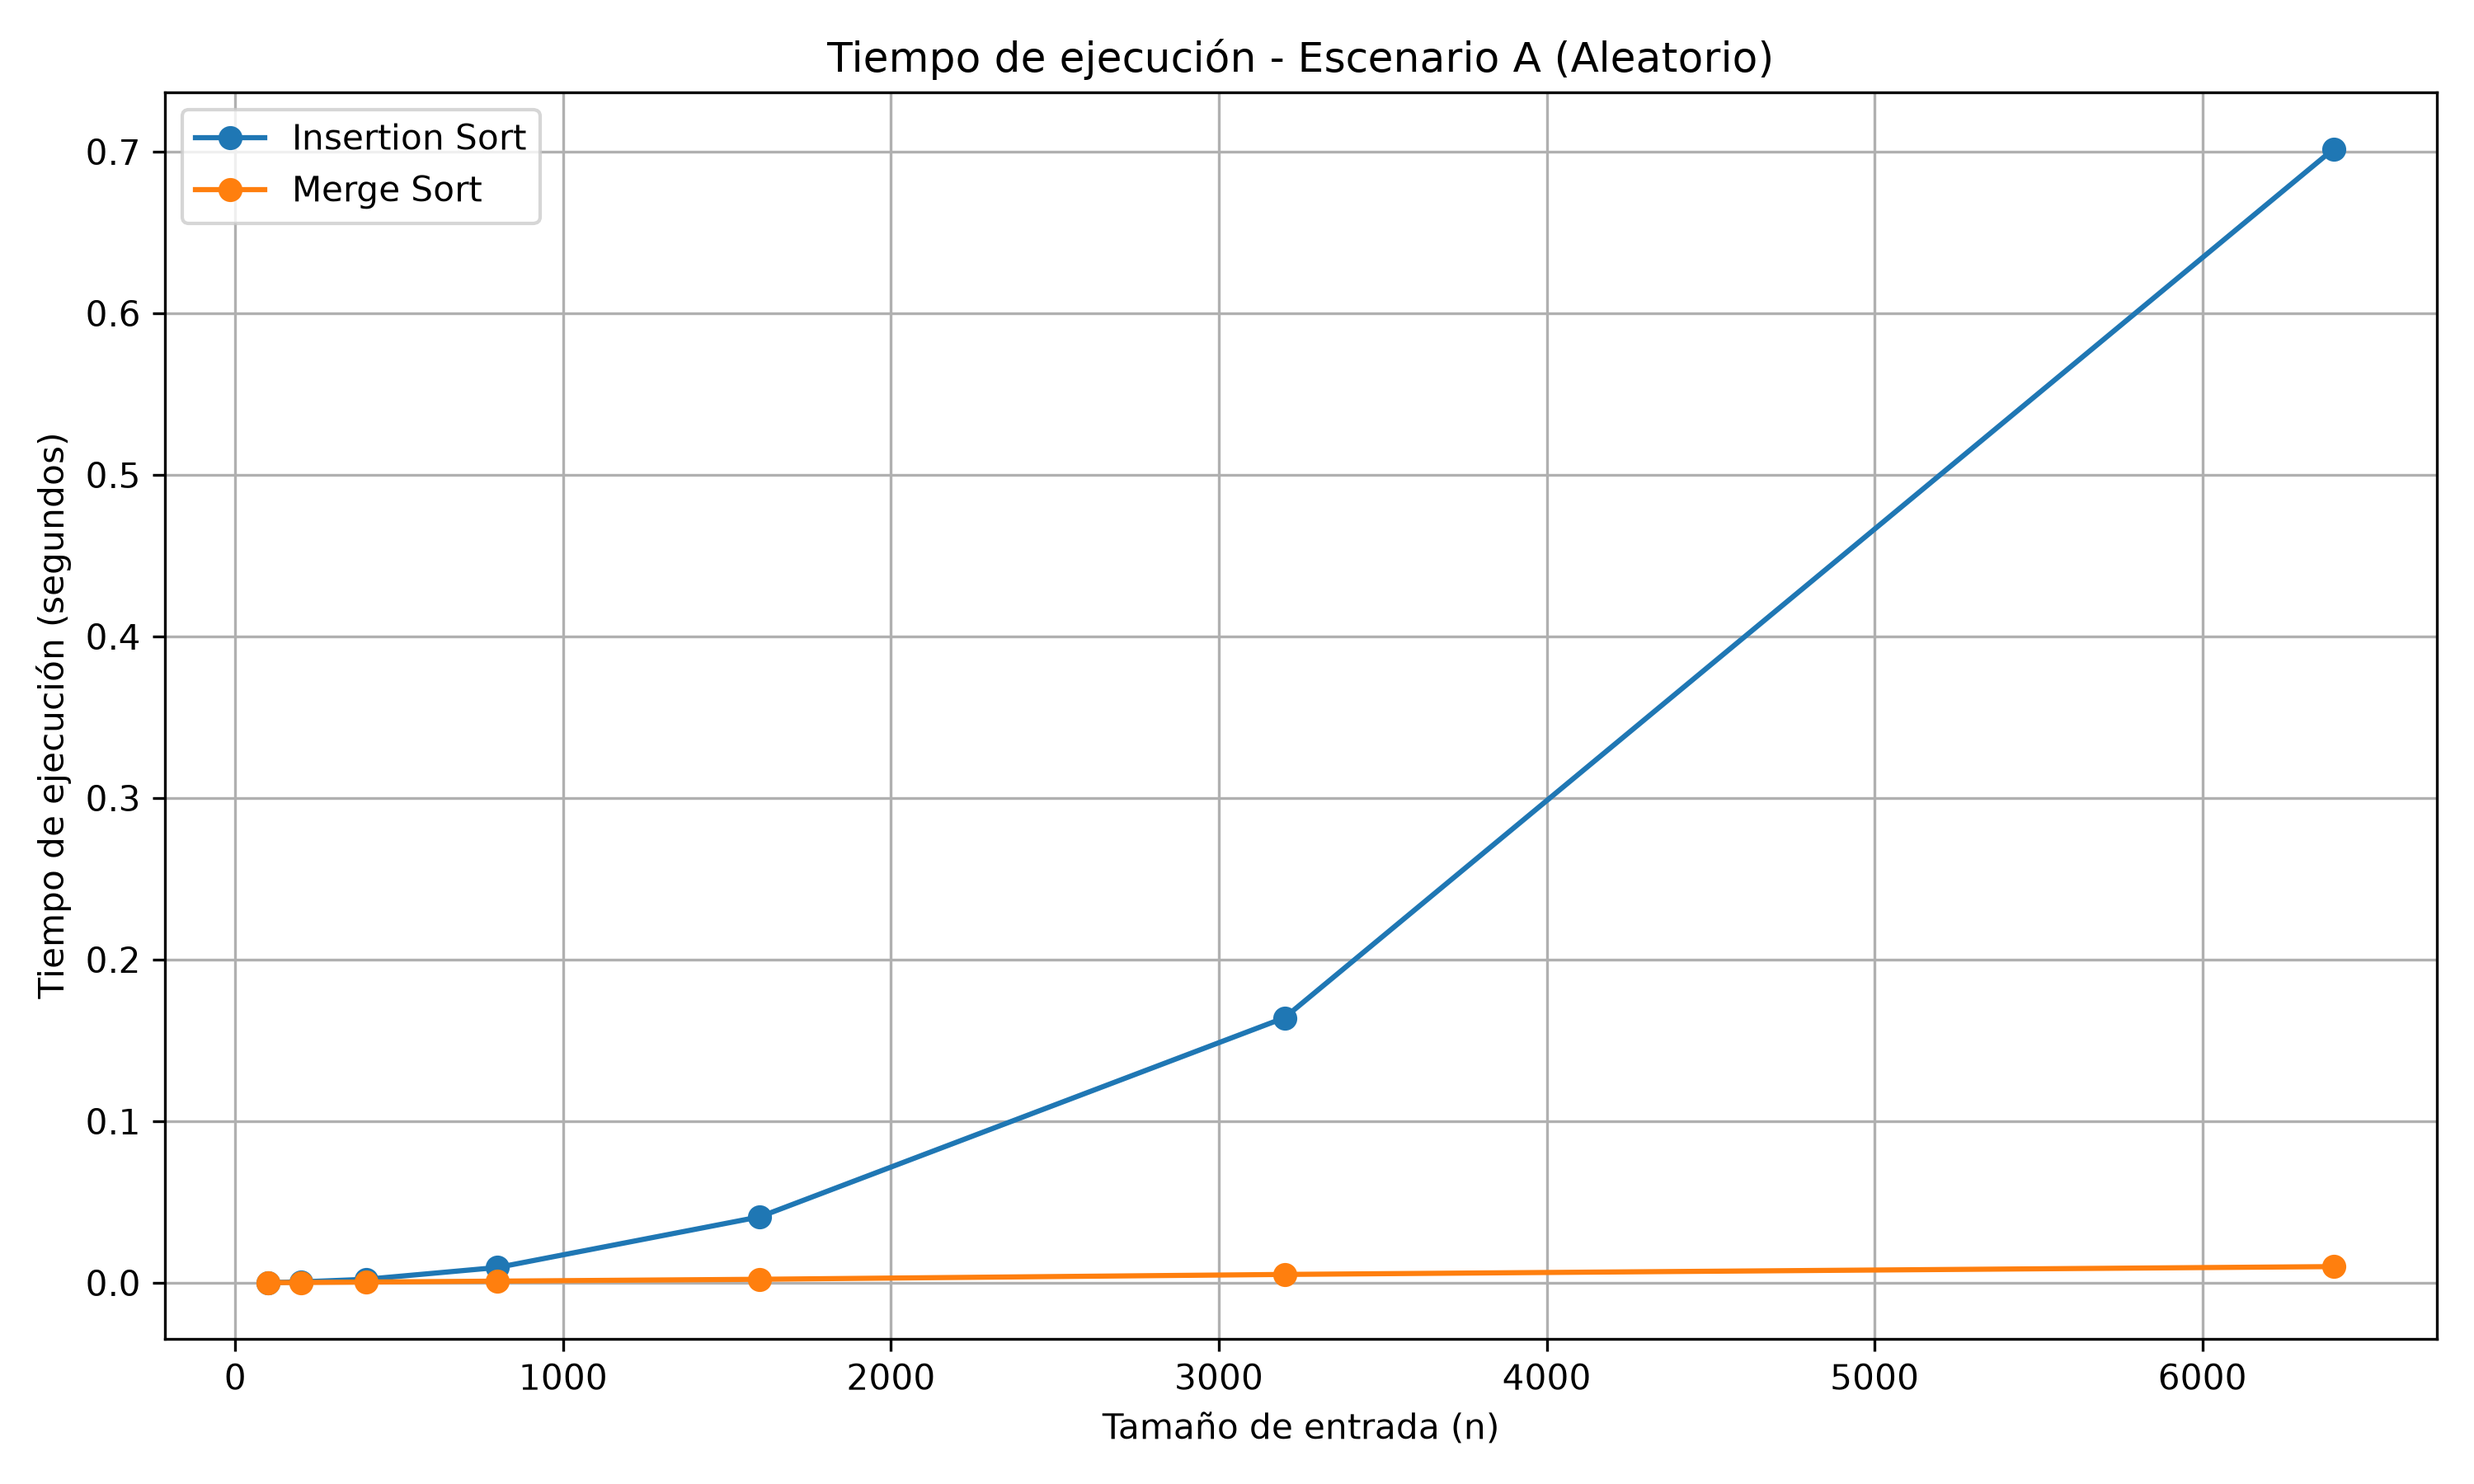
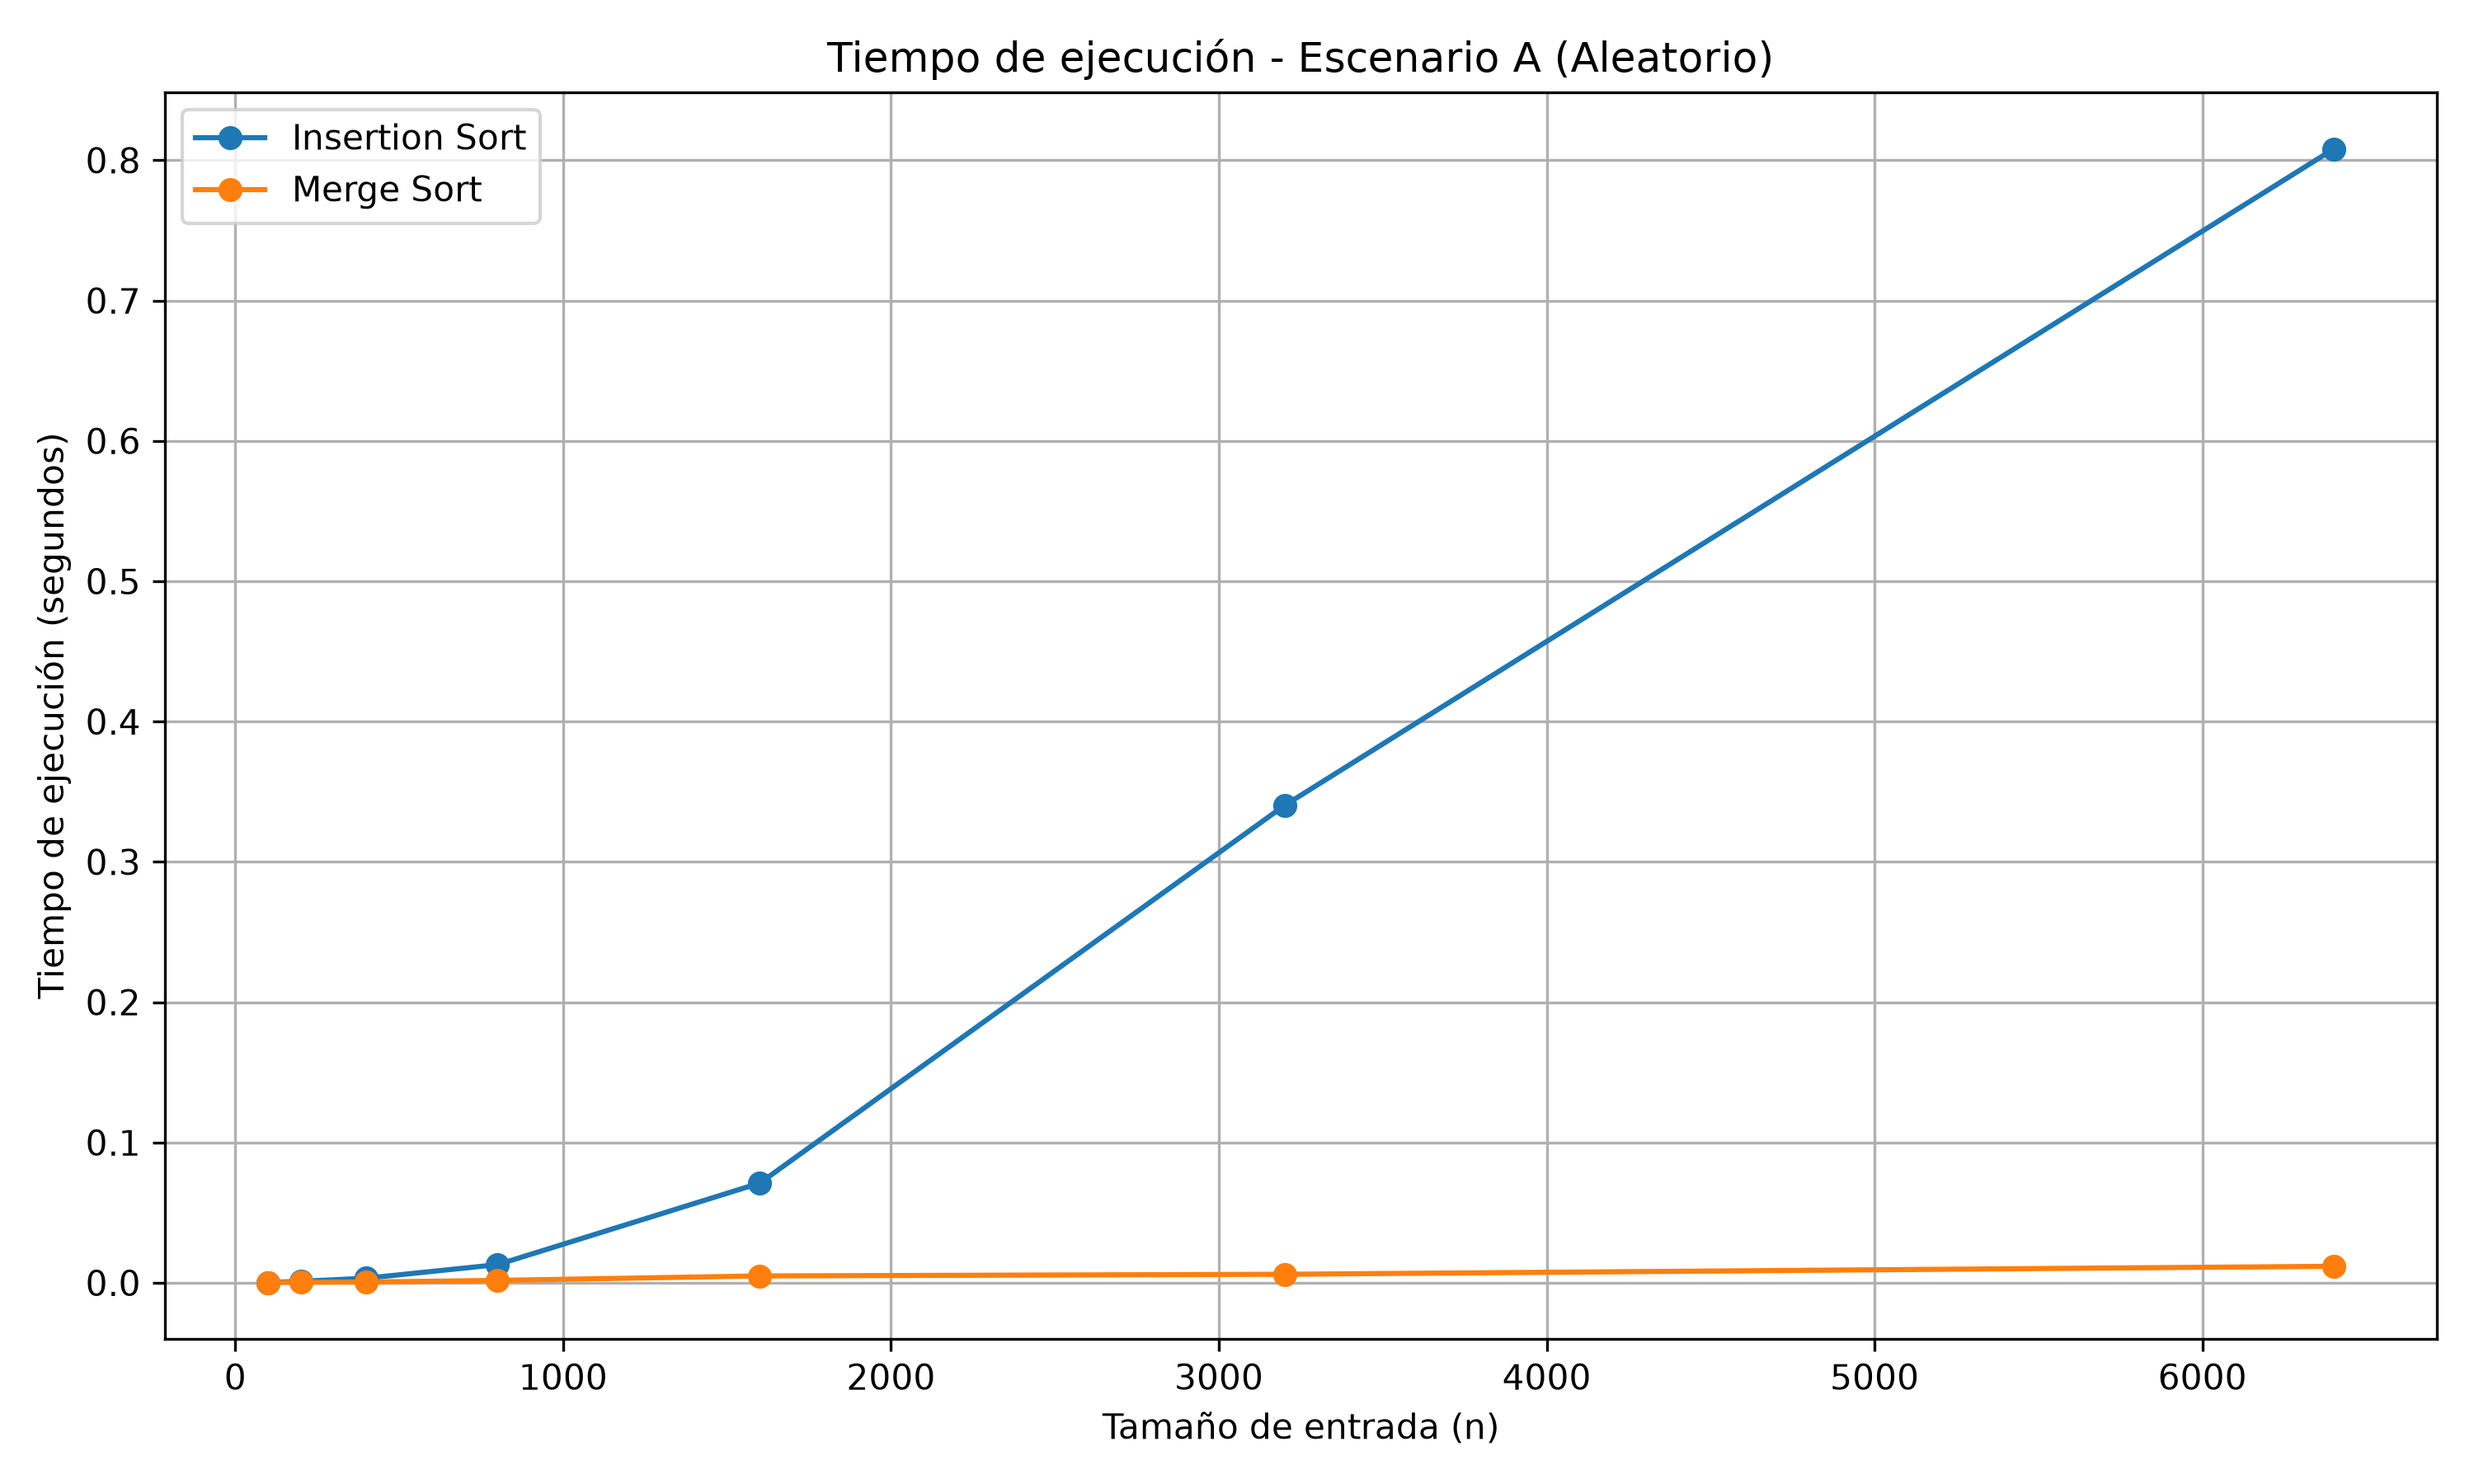
Ajustes y y mejoras en el laboratorio evaluativo 01 sobre archivos de codificación e informe en README

diff --git a/laboratorios/lab1-fundamentos-complejidad-recurrencias/algoritmos.py b/laboratorios/lab1-fundamentos-complejidad-recurrencias/algoritmos.py
@@ -38,6 +38,17 @@ def insertion_sort(datos: list[int]) -> tuple[list[int], int]:
     return lista, comparaciones
 
 def merge(izquierda: list[int], derecha: list[int]) -> tuple[list[int], int]:
+    """Mezcla dos listas ordenadas en orden descendente. 
+        
+    No modifica las listas recibidas: construye una nueva lista con los elementos ordenados. 
+        
+    Args: 
+        izquierda: Primera lista ordenada. derecha: Segunda lista ordenada. 
+        
+    Returns: 
+        Una tupla con la lista mezclada y el número total de comparaciones entre elementos 
+        realizadas durante el proceso. 
+    """
     resultado = []
     i = 0
     j = 0

diff --git a/laboratorios/lab1-fundamentos-complejidad-recurrencias/parte3_casos.py b/laboratorios/lab1-fundamentos-complejidad-recurrencias/parte3_casos.py
@@ -98,7 +98,7 @@ def main() -> None:
 
     plt.tight_layout()
     plt.savefig(CARPETA_GRAFICAS / "parte3_comparaciones.png", dpi=300)
-    plt.close()
+    plt.show()
 
 
     # Crear gráfica de tiempo
@@ -133,7 +133,7 @@ def main() -> None:
 
     plt.tight_layout()
     plt.savefig(CARPETA_GRAFICAS / "parte3_tiempo.png", dpi=300)
-    plt.close()
+    plt.show()
 
 
 if __name__ == "__main__":

diff --git a/laboratorios/lab1-fundamentos-complejidad-recurrencias/parte4_complejidad.py b/laboratorios/lab1-fundamentos-complejidad-recurrencias/parte4_complejidad.py
@@ -82,7 +82,7 @@ def main() -> None:
 
     plt.tight_layout()
     plt.savefig(CARPETA_GRAFICAS / "parte4_tiempo.png", dpi=300)
-    plt.close()
+    plt.show()
 
 if __name__ == "__main__":
     main()

diff --git a/README.md b/README.md
@@ -1,6 +1,6 @@
-# Curso de Analisis de Algoritmos
+# Curso de Análisis de Algoritmos
 
-# Informes de Laboratorio - ejercicios en clase - Análisis de Algoritmos
+## Informes de Laboratorio — Ejercicios en Clase — Análisis de Algoritmos
 
 Repositorio destinado al desarrollo y documentación de los informes de laboratorio evaluativos del curso de Análisis de Algoritmos.
 
@@ -8,13 +8,20 @@ Repositorio destinado al desarrollo y documentación de los informes de laborato
 
 Las carpetas del repositorio se organizan de la siguiente manera:
 
-- `ejercicios-clase/`: contiene los ejercicios y prácticas desarrollados durante las clases.
-- `laboratorio-1/`: contiene los archivos correspondientes al primer informe de laboratorio.
-- `laboratorio-2/`: contiene los archivos correspondientes al segundo informe de laboratorio.
-- `laboratorio-3/`: contiene los archivos correspondientes al tercer informe de laboratorio.
-- `laboratorio-4/`: contiene los archivos correspondientes al cuarto informe de laboratorio.
-- `laboratorio-5/`: contiene los archivos correspondientes al quinto informe de laboratorio.
+* `ejercicios-clase/`: contiene los ejercicios y prácticas desarrollados durante las clases.
 
-- `benchmarks/`: contiene las pruebas de rendimiento utilizadas para medir y comparar la eficiencia de los algoritmos implementados.
+* `laboratorio-1/` — [Laboratorio 1](laboratorios/lab1-fundamentos-complejidad-recurrencias): contiene los archivos correspondientes al primer informe de laboratorio.
 
-colaborador: santiagoSuarez219
+* `laboratorio-2/`: contiene los archivos correspondientes al segundo informe de laboratorio.
+
+* `laboratorio-3/`: contiene los archivos correspondientes al tercer informe de laboratorio.
+
+* `laboratorio-4/`: contiene los archivos correspondientes al cuarto informe de laboratorio.
+
+* `laboratorio-5/`: contiene los archivos correspondientes al quinto informe de laboratorio.
+
+* `benchmarks/`: contiene las pruebas de rendimiento utilizadas para medir y comparar la eficiencia de los algoritmos implementados.
+
+## Colaboradores
+
+* **santiagoSuarez219**

diff --git a/laboratorios/lab1-fundamentos-complejidad-recurrencias/README.md b/laboratorios/lab1-fundamentos-complejidad-recurrencias/README.md
@@ -505,5 +505,3 @@ Merge Sort permite mantener una única implementación y ofrece un comportamient
 ## Autores
 
 * [Jhon Fernando Sánchez Álvarez]
-
-
